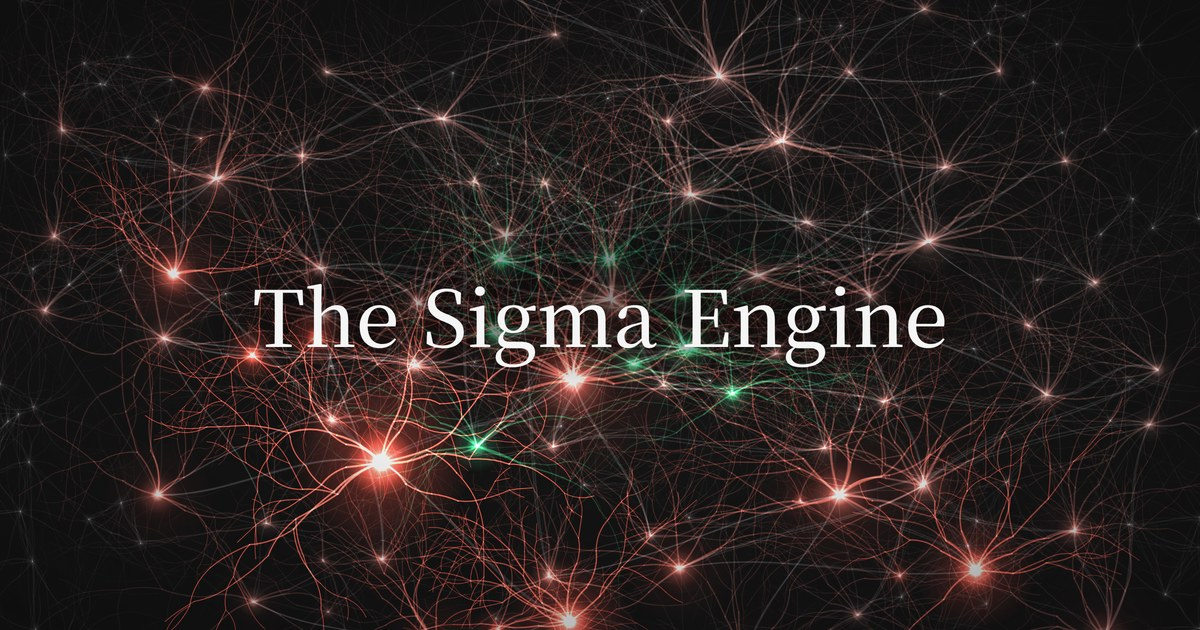
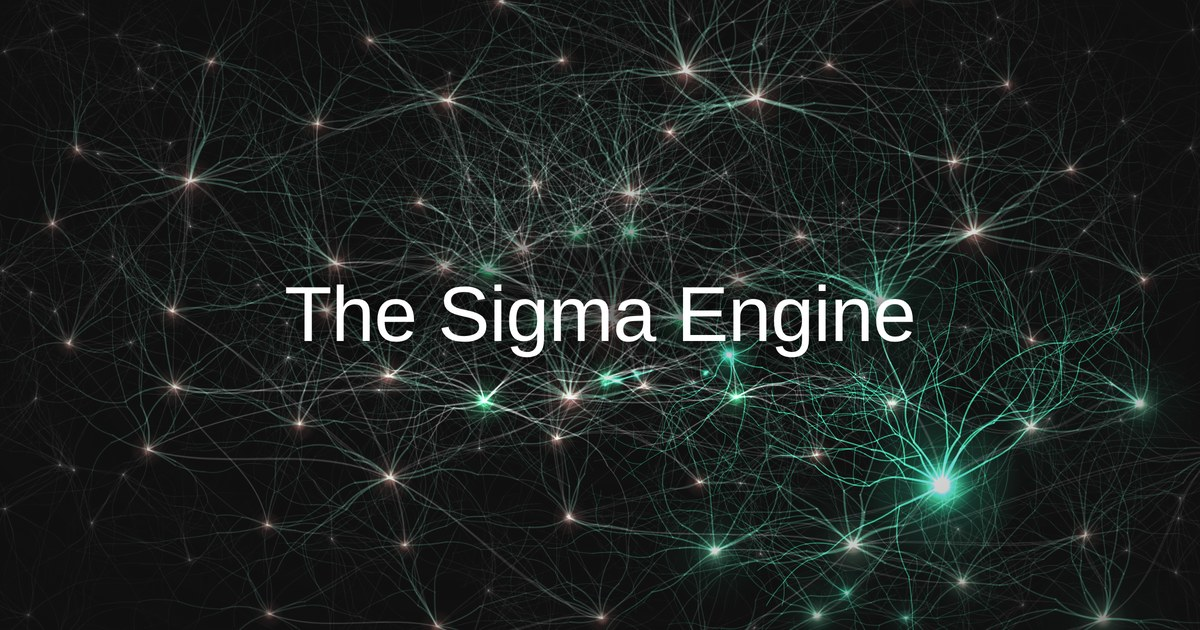
대시보드: 본 화면을 VoltAgent 디자인으로 (예전 화면은 ?theme=classic)
Claude-Session: https://claude.ai/code/session_01ATjxQjs57VEtPfES8zkL7L

diff --git a/docs/index.html b/docs/index.html
@@ -1,6 +1,6 @@
 <!doctype html>
 <!-- Sigma Engine · Designed by S.Lee -->
-<html lang="ko">
+<html lang="en">
 <head>
 <meta charset="utf-8">
 <meta name="viewport" content="width=device-width, initial-scale=1, viewport-fit=cover">
@@ -10,16 +10,16 @@
 <meta property="og:type" content="website">
 <meta property="og:url" content="https://isopink.github.io/hynix-298f/">
 <meta property="og:site_name" content="Sigma Engine">
-<meta property="og:image" content="https://isopink.github.io/hynix-298f/og.jpg?v=7">
+<meta property="og:image" content="https://isopink.github.io/hynix-298f/og.jpg?v=8">
 <meta property="og:image:width" content="1200">
 <meta property="og:image:height" content="630">
 <meta property="og:image:alt" content="The Sigma Engine 신경망">
 <meta name="twitter:card" content="summary_large_image">
-<meta name="twitter:image" content="https://isopink.github.io/hynix-298f/og.jpg?v=7">
+<meta name="twitter:image" content="https://isopink.github.io/hynix-298f/og.jpg?v=8">
 <link rel="icon" type="image/png" sizes="32x32" href="favicon-32.png">
 <link rel="icon" type="image/png" sizes="512x512" href="icon-512.png">
 <link rel="apple-touch-icon" href="apple-touch-icon.png">
-<meta name="theme-color" content="#0d0d10">
+<meta name="theme-color" content="#101010">
 <meta name="twitter:title" content="The Sigma Engine">
 <link rel="preconnect" href="https://fonts.googleapis.com">
 <link rel="stylesheet" href="https://fonts.googleapis.com/css2?family=Noto+Serif+KR:wght@400;500;600;700&display=swap">
@@ -536,13 +536,13 @@ button:focus-visible, summary:focus-visible, a:focus-visible, [tabindex="0"]:foc
 <script id="sample-data" type="application/json">{}</script>
 <script src="https://cdnjs.cloudflare.com/ajax/libs/d3/7.9.0/d3.min.js"></script>
 <script>
-/* 11-10 S.Lee: VoltAgent 디자인 시안. ?theme=volt (또는 /volt/) 일 때만 켜짐, 본 화면은 그대로.
+/* 11-10 S.Lee: VoltAgent 디자인 (본 화면 기본). ?theme=classic 이면 예전 Noto Serif · 유리 화면.
    색은 한 곳에서 바꿈: 기존 CSS 글자 · d3 색 속성 · 캔버스(커버 신경망) · 인라인 style 의 빨강/파랑/초록을
    VoltAgent 팔레트(초록 #00d992 하나 + 무채색)로 옮김. 수익 = 초록, 손실 = 회색, SiON = 흰색. */
 (function () {
-  const VOLT = /(^|[?&])theme=volt\b/.test(location.search);
+  const VOLT = !/(^|[?&])theme=classic\b/.test(location.search);   // 11-10 S.Lee: 본 화면을 VoltAgent 로. 예전 화면은 ?theme=classic
   window.VOLT = VOLT;
-  if (!VOLT) return;
+  if (!VOLT) { document.documentElement.lang = 'ko'; return; }
   document.documentElement.dataset.theme = 'volt';
   const HEX = { '#da291c': '#00d992', '#ff5a4a': '#2fd6a1', '#ff8a70': '#2fd6a1', '#ff4a36': '#00d992', '#c41a0d': '#10b981', '#a8160b': '#10b981', '#ff6a55': '#2fd6a1', '#b01e0a': '#10b981', '#ffd2cc': '#c8f5e6', '#ff7a6e': '#7fe8c4', '#e0b84a': '#d0d0d0',
     '#4aa3d4': '#8b949e', '#7cc4ea': '#bdbdbd', '#9ad6f2': '#d0d0d0', '#1f6f9c': '#5a6068', '#3ecf8e': '#f2f2f2', '#c8f5dc': '#ffffff',

diff --git a/docs/volt/index.html b/docs/volt/index.html
@@ -1,5 +1,5 @@
 <!doctype html>
-<!-- 11-10 S.Lee: VoltAgent 디자인 시안 입구. 링크 미리보기(썸네일)만 따로 두고, 화면은 본 대시보드를 ?theme=volt 로 엶 -->
+<!-- 11-10 S.Lee: 예전 시안 주소. 본 화면이 VoltAgent 로 바뀌어 본 대시보드로 넘김 -->
 <html lang="ko">
 <head>
 <meta charset="utf-8">
@@ -16,11 +16,11 @@
 <meta name="twitter:title" content="The Sigma Engine">
 <meta name="twitter:image" content="https://isopink.github.io/hynix-298f/volt/og.jpg?v=1">
 <meta name="theme-color" content="#101010">
-<meta http-equiv="refresh" content="0; url=../?theme=volt">
+<meta http-equiv="refresh" content="0; url=../">
 <style>html, body { margin: 0; background: #101010; color: #8b949e; font: 14px Inter, system-ui, sans-serif; } a { color: #2fd6a1; } p { padding: 24px; }</style>
 </head>
 <body>
-<p><a href="../?theme=volt">The Sigma Engine</a></p>
-<script>location.replace('../?theme=volt' + location.hash);</script>
+<p><a href="../">The Sigma Engine</a></p>
+<script>location.replace("../" + location.hash);</script>
 </body>
 </html>

diff --git a/CLAUDE.md b/CLAUDE.md
@@ -98,13 +98,17 @@ reports/    보고서 PDF, drafts/ = 주간 회고 에이전트가 쓴 초안
 
 ## 디자인 규칙 (대시보드)
 
-- 글꼴은 전부 Noto Serif KR (고딕으로 바꾸지 말 것)
-- 다크 캔버스 + 유리 질감 카드(반투명, blur, 16px radius) + 은은한 빨강/파랑 그라데이션 배경
-- 빨강 `#da291c`/`#ff5a4a` = 수익·강조, 파랑 `#4aa3d4` = 손실 (국내 증시 관례), 나머지는 무채색. 예외: 누적 수익률 차트의 온톨로지 그림자 선만 초록 `#3ecf8e` (11-08 S.Lee)
+- **11-10 S.Lee: 본 화면은 VoltAgent 디자인** (`index.html` 의 `VOLT` 스크립트 블록이 기본으로 켜짐, 예전 화면은 `?theme=classic`). 새로 고칠 때는 VoltAgent 규칙을 따름:
+  - 캔버스 `#101010` 한 면만, 유리 질감 · 그라데이션 배경 · 그림자 없음. 카드는 1px 선 `#3d3a39` + 8px 모서리, 버튼 6px, 알약 모양은 상태 태그만
+  - 강조색은 초록 `#00d992` 하나 (수익 · 상태 · 활성 표시). 손실은 회색 `#8b949e`, SiON 은 흰색 `#f2f2f2`, 오류 상태 점만 빨강
+  - 글꼴: 영문 Inter, 한글 Pretendard, 숫자 · 표 · 차트 글자 JetBrains Mono. 큰 숫자 · 제목은 400 굵기
+  - 라벨(eyebrow)은 대문자 + 자간 2.2px. 화면 글자는 영어 (사전 `EN` · 패턴 `RX` 에 추가), 종목명 · 에이전트 판단 근거는 원문 한글
+  - 색은 예전 빨강/파랑 값으로 써도 `voltColor` 가 CSS 글자 · d3 색 · 캔버스 · 인라인 style 에서 한 번에 바꿈. 새 색은 그 표(`HEX` · `RGB`)에 넣을 것
+- (예전 classic 화면 규칙, `?theme=classic` 에서만) 글꼴 Noto Serif KR, 유리 질감 카드 16px, 빨강 `#da291c`/`#ff5a4a` = 수익 · 파랑 `#4aa3d4` = 손실, 온톨로지 선 초록 `#3ecf8e`
 - 흐린 글씨는 `#8c8c8c` 이상 (대비 4.5:1 유지), 축 글씨 11px 이상
 - 글은 최소화, 상세는 툴팁(마우스 오버 + 터치 시 고정 + 키보드 Tab·Esc). HTML 요소는 `tipTarget`, 막대·점·도넛은 `tipMark`, 연속 차트는 `tipAxis`(← → 로 시점 이동). 폰의 판단 행은 말풍선 대신 탭하면 행 아래로 펼침
 - 화면 이름은 Sigma Engine으로 통일 (11-06 Sigma Six에서 바꿈). 큰 숫자는 수익률(11-10 S.Lee: 금액 대신, 총 손익 금액·양도차익·평가손익은 툴팁)
-- 라벨은 대문자·자간 없이, 이모지 아이콘과 가운뎃점 나열 쓰지 않기
+- 이모지 아이콘과 가운뎃점 나열 쓰지 않기
 - The Sigma Engine 커버(11-05, 폰에서만 · PC 는 바로 대시보드): 처음 열면 화면 전체에 뉴런 망(Sigma Network, 구성 요소 73개·경로 100개, EWY·응원 게시판 제외. 11-08 온톨로지 뉴런 8개(Fact Claims·Hypothesis Registry·Premise Ledger·Execution Trace·Premise Evaluation·Case Library·Lesson Registry·Policy Validation, `BASE_N` 넷째 값 1)는 쉴 때도 또렷한 초록(11-08 진하게), 켜지면 초록 `#3ecf8e`, 드나드는 데이터 점도 초록. 나머지 큰 뉴런은 쉴 때 옅은 빨강(대비), 작은 뉴런은 회색)이 자동 시나리오로 돌고 가운데 'The Sigma Engine'. 아무 곳이나 터치하면 1초간 사라지며 대시보드. 실시간 신호와는 연결하지 않음(S.Lee 결정). 지점은 깜빡이지 않고 켜지는 순간 한 번 진하게 번쩍였다가 가라앉음. 데이터 흐름은 움직이는 점으로만 보여 주고 경로를 붉게 칠하지 않음(11-06). 흐르는 데이터는 경로 가운데서 가까운 작은 뉴런 2~3개로 갈라져 그 뉴런을 한 번 번쩍이게 함, 작은 뉴런은 폰 150·PC 100개(11-06). 켜지는 세기는 연결 수에 따라 다름(많이 연결된 뉴런일수록 진하게, 가장 적은 쪽 약 35%), 데이터가 닿은 뉴런은 켜는 단계가 없어도 1초쯤 켜짐(11-06). 지점 이름은 11-10 S.Lee 결정으로 안 그림 (예전: 켜진 동안 역할 영어 이름). 배치는 총괄 AI 중심 방사형(힘 기반, 고정 seed), 세로 화면이면 90도 돌려 세움. 지점은 주기·폭이 다른 세 겹의 흔들림으로 제각각 떠다니고(잔가지는 지점별 그림으로 미리 구워 따라감), 한 프레임 60ms 를 넘기면 해상도를 낮추되 2배 밑으로는 안 내림. 좌표 원본은 `liveStatus()` 안 `BASE_N`
 - 하단: `Designed by S.Lee & M.Park` 한 줄 (11-04 GitHub 로고 링크 뺌)
 - 응원하기 버튼 없음 (11-06 S.Lee). 11-10 상단 응원 띠도 없앰 → 응원 게시판은 화면에서 열 곳 없음 (글은 Supabase comments 에 남음)
@@ -114,8 +118,7 @@ reports/    보고서 PDF, drafts/ = 주간 회고 에이전트가 쓴 초안
 - 11-10 머리글 칩 줄 맨 앞에 실시간 KOSPI 칩(지수 · 등락률 · RSI, 네이버 1분봉). 폰은 머리글 칩 줄을 숨기고 같은 내용을 수익률 카드 맨 위 한 줄(연한 구분선)로, 'Live KOSPI' 접는 칸도 숨김 (PC 는 그대로)
 - 상태 점 규칙: 초록 = 동작, 초록 깜빡임 = 판단 실행 중, 빨강 깜빡임 = 장중 실패·지연·동기화 멈춤(온톨로지는 지연·쉼을 회색), 회색 = 장 마감. 11-10 S.Lee: 장 밖에는 실패가 있어도 회색, 사유는 툴팁에만
 - 11-10 S.Lee: PC(641px 이상)는 접는 칸(Table · 최근 체결 · Live KOSPI · Record · Feedback Loop)을 전부 펼친 채로, + − 표시·클릭 없음. 폰은 지금처럼 접힘
-- 링크 미리보기(11-10): 제목 'The Sigma Engine' 만(설명 없음), 그림 `docs/og.jpg` = 커버 신경망 + 가운데 The Sigma Engine (1200×630)
-- 11-10 VoltAgent 디자인 시안 (S.Lee): `?theme=volt` 또는 `/volt/` (링크 미리보기 `docs/volt/og.jpg`) 에서만 켜짐. index.html 안 `VOLT` 스크립트가 CSS 글자 · d3 색 · 캔버스 · 인라인 style 의 색을 한 번에 바꿈 (빨강 → 초록 #00d992, 파랑 → 회색 #8b949e, SiON 초록 → 흰색), Inter + Pretendard + JetBrains Mono, 화면 글자는 영어(사전 `EN` · 패턴 `RX`, 종목명·에이전트 판단 근거는 원문), 유리·그라데이션 없이 1px 선 #3d3a39 · 8px 모서리. 본 화면 규칙은 그대로, 채택하면 이 블록을 기본으로
+- 링크 미리보기(11-10): 제목 'The Sigma Engine' 만(설명 없음), 그림 `docs/og.jpg` = VoltAgent 색 커버 신경망(초록 · 흰색) + 가운데 Inter 'The Sigma Engine' (1200×630). `/volt/` 는 예전 시안 주소라 본 화면으로 넘김
 - 수정 후 데스크톱(1280)·모바일(400) 둘 다 가로 스크롤 없는지 확인
 
 ## 보안 (반드시 지킬 것)
